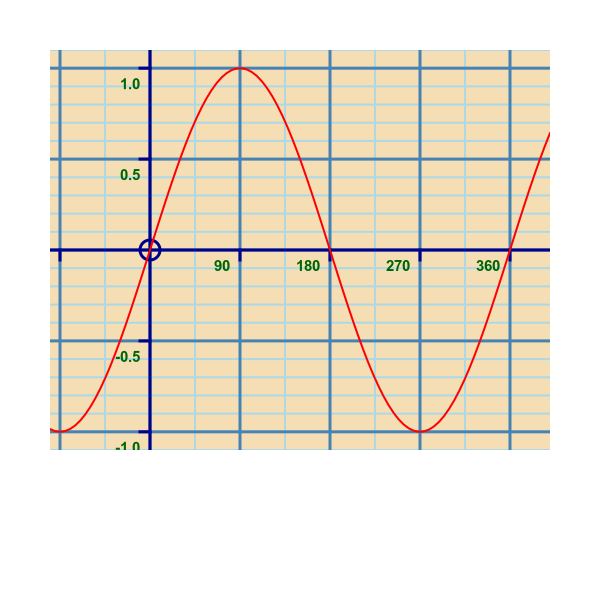
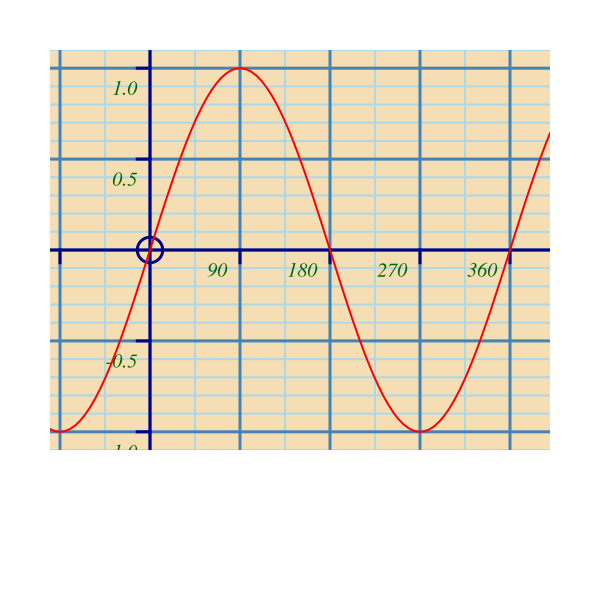
Add text style to Axes

diff --git a/generativepy/graph.py b/generativepy/graph.py
@@ -10,7 +10,7 @@ import copy
 from dataclasses import dataclass
 
 from generativepy.geometry import Text, Shape, FillParameters, StrokeParameters, FontParameters
-from generativepy.drawing import BUTT, FONT_WEIGHT_BOLD
+from generativepy.drawing import BUTT, FONT_WEIGHT_BOLD, FONT_WEIGHT_NORMAL, FONT_SLANT_NORMAL
 from generativepy.color import Color
 from generativepy import drawing
 
@@ -109,6 +109,18 @@ class Axes:
         :return: self
         '''
         self.appearance.textcolor = pattern
+        return self
+
+    def text_style(self, font="Arial", weight=FONT_WEIGHT_NORMAL, slant=FONT_SLANT_NORMAL, size=15):
+        '''
+        Set the style of the axis text
+        :param font: Font name
+        :param weight: Font weight
+        :param slant: Font slant
+        :param size: Font size in units. This will be multiplied by the featurescale value.
+        :return:
+        '''
+        self.appearance.fontparams = FontParameters(font, weight, slant, size)
         return self
 
     def axis_linestyle(self, pattern=Color(0), line_width=None, dash=None, cap=None, join=None, miter_limit=None):

diff --git a/imagetests/test_graph_module.py b/imagetests/test_graph_module.py
@@ -1,6 +1,6 @@
 import unittest
 import math
-from generativepy.drawing import setup, make_image, ROUND, BUTT
+from generativepy.drawing import setup, make_image, ROUND, BUTT, FONT_SLANT_ITALIC
 from image_test_helper import run_image_test
 from generativepy.color import Color
 from generativepy.graph import Axes, Plot
@@ -100,6 +100,7 @@ class TestGraphImages(unittest.TestCase):
                 .with_subdivisions((2, 5))\
                 .background(Color('wheat'))\
                 .text_color(Color('darkgreen'))\
+                .text_style(font="Times", size=20, slant=FONT_SLANT_ITALIC)\
                 .axis_linestyle(Color('darkblue'), line_width=3)\
                 .division_linestyle(Color('steelblue'), line_width=3)\
                 .subdivision_linestyle(Color('lightblue'), line_width=2, dash=[4, 2])
